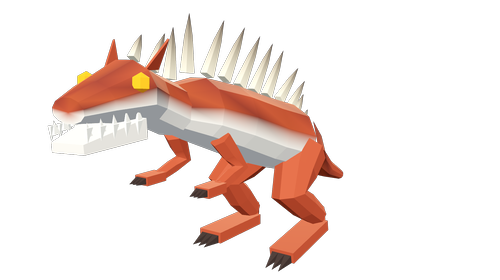
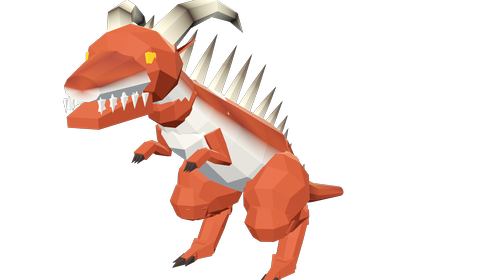
Integrate Lane UI: debug read-out behind F3 (R-UI2), preview never writes run history (R-UI5), thumbnails regenerated from the new monster models (R-UI1), L-19 settled, fold H800-H813
Claude-Session: https://claude.ai/code/session_01TkDAFjAZfbyuVMBwWarbCq

Changed region(s): [[0.09, 0.0, 0.69, 1.0]]

diff --git a/DECISIONS.md b/DECISIONS.md
@@ -216,3 +216,17 @@ Number blocks: H1-H99 foundation and plan (session 0). Lane blocks are reserved 
 | H678 | 2026-10-19 | Spirewalker rig v2: a broad low toad body (belly 0.45 m), short thick six limbs planted wide (elbows out level), the wide grinning toad head with a heavy brow (ext_swampfang's skull/jaw builders), a darker-ochre `mound` the reed bed grows from (tallest reeds in the middle), eight olive `frond` leaves round the mound, four thorned whip vines as rigkit chains (`vine_<k>_0..4`, role `reed`). Kept: six limbs, copper reeds, `reed_0..2`, the nine `arc` beads (now at least 0.45 m apart so HHMonsterBody's 0.22 m clustering never merges two). | Claude, decided | Gauntlet (SPIREWALKER.md rounds 0-3): the old model read as a spider; text wins on six limbs and a reed bed (no flower). | current |
 | H679 | 2026-10-19 | The whip vines are `reed` role, so the violet charge glow and the reeds-burnt charcoal reach them with no change to monster_body.gd; they are the reed lash on the body. HHSpirewalkerClips layers a vine pass after every clip (`_vine_layer`): `reed_lash` whips them over the back at contact, the squash folds and whips them, pollen shake shakes them, burnt / collapse / death droop them. | Claude, decided | Kickoff: "the reeds lash out like whips"; the reference's trailing thorned vines; one reed weak point. | current |
 | H680 | 2026-10-19 | Gauntlet tooling: `tools/gauntlet_compare_mb.gd` (reference left, render right, one PNG; headless, or `compose()` from a preview), `--gauntlet N`, `--clips a,b` on both MB preview tools, and `--water` on Swampfang's (a water plane at y 0 over a dropped floor, gameplay camera and close-up) because the fight camera never frames the calm monster before it wakes. | Claude, decided | BRIEF.md's comparison step; the pond check. | current |
+| H800 | 2026-10-19 | Thumbnails live in `art/ui/thumbs/<kind>_<id>.png` (500x280, twice a lobby tile), rendered by `tools/ui_thumbs.gd` from the current assets: arenas through `HHArenaView` at 74 m / 52 deg (opaque; a dark render is gamma-lifted to a 0.22 mean), monsters as `HHMonsterBody` at `aggravated_idle` 0.8 from the front three-quarter (transparent), weapons from `art/weapons/*.glb` with vertex-colour role materials (transparent; daggers as the crossed pair). `HHHud.thumb(kind, id)` loads the imported texture, else the raw PNG, else null. | Claude, decided | Lanes MA/MB are rebuilding the monsters now: a tool the integrator reruns beats copied renders that go stale. | current |
+| H801 | 2026-10-19 | The HUD paints through `HHHud.Paint` (RenderingServer calls on a canvas item RID) instead of `draw_*`; `_draw` passes its own item, the self-test a scratch item, so the whole HUD is exercised headless. `HHHud.paint(pt, size)` is the entry; `HHHud.layout(size)` is pure. | Claude, decided | `draw_*` refuses outside `_draw`, which a synchronous test cannot reach. | current |
+| H802 | 2026-10-19 | The action bar after ref/ui_hud.jpg: Q W E R left of a centred glass HP orb (r 54), the active element, the backup (72%, dimmed, "W" over it) and the potion right of it, on one dark plate with a gold trim and diamond studs. Skill names and the "fire / water" text are gone from the bar (the element slot names its element). | Claude, decided | Kickoff: "clean bottom action bar ... inspired by the reference UI, keeping the screen uncluttered". The reference centres the orb between two icon runs. | current |
+| H803 | 2026-10-19 | Icons are code-drawn glyphs (`HHHud.glyph_ops`: 11 skills, 7 elements, poison/slow/star/cross), two passes (ink outline, then fill) on a bevelled gradient slot with a lit core. No icon textures. | Claude, decided | Scales to any size, recolours per element, nothing to import; painted art is out of reach for code and no artist is attached. | current |
+| H804 | 2026-10-19 | Cooldowns are a radial sweep: the turn still to run, clockwise from 12 o'clock, shaded 66% black with a bright hand on the leading edge, the seconds in the centre (one decimal under 10 s). A slot that comes off cooldown flashes white for a third of a second. | Claude, decided | The reference's (and the genre's) cooldown read. | current |
+| H805 | 2026-10-19 | The stamina slot (H19) is an empty gold-railed arc over the orb's crown: reserved, never filled. | Claude, decided | The reference has an endurance arc there; drawing it full would claim a resource the game does not have. | current |
+| H806 | 2026-10-19 | All four skill icons wear the active element's colour; W recolours the whole bar. | Claude, decided | The swap is the weapon's core verb; the bar changing colour reads it at a glance. The reference's multi-hued icons were the alternative. | current |
+| H807 | 2026-10-19 | The monster plate: portrait socket (the monster thumbnail cropped round), name in serif caps, HP bar with a pale ghost of recent damage (drains 12%/s), quarter ticks, HP numbers inside, a state socket on the right (dim star when there is no state, the state's glyph and its label in caps when there is). | Claude, decided | "Name plate, state icon" (brief); the ghost shows what a big hit took. | current |
+| H808 | 2026-10-19 | Display face: a system serif (`HHHud.serif()`: Cambria, Georgia, Book Antiqua, Palatino Linotype, Times New Roman) in bold, falling back to the engine font. Nothing is bundled. | Claude, decided | Windows fonts may not be redistributed in the exe; SystemFont reads them on the author's machine and degrades elsewhere. | current |
+| H809 | 2026-10-19 | The lobby, results and ambush card share the HUD's language: dark plates with gold rules (`HHHud.plate`), round sockets (`HHHud.socket`), the serif, gold for selection. `HHLobby.make_theme()` is the shared theme (buttons as plates, FIGHT in the orb red, CheckBoxes as plain rows); the results screen uses it too. | Claude, decided | Author: "Also send the UI through the gauntlet as well". | current |
+| H810 | 2026-10-19 | Run history (L-19): `HHLobbyState.record_run / load_runs / run_entry / run_verdict`, a JSON array in `user://hexhunt_runs.json` (`runs_path`, redirected by the self-test to `user://selftest_runs.json`), newest first, 20 kept, 5 shown on the card. A fight routed back to the lobby records once (the lobby's `last_result`, else its HHShell parent's); the results screen records hunts (`record_run = false` for previews). | Claude, decided | The shell hands the lobby only `result_text`; reading the parent shell avoids a shell edit. Hunts never pass through the shell's routing, so nothing records twice. | current |
+| H811 | 2026-10-19 | The element strip shows its alternation (L-19): a "next click sets the ACTIVE / BACKUP element" line on the row, and on hover a dashed ring in that slot's colour with a "SET ACTIVE / SET BACKUP" tag; active wears a gold ring with a glow, backup a silver one. | Claude, decided | The rule was invisible until used. | current |
+| H812 | 2026-10-19 | Results: the verdict slams in (scale 1.8 -> 1 over 0.3 s), stats fade in at 0.35 s, drop cards deal from 0.75 s, 0.3 s apart, each with a flash peaking at 75% of its 0.35 s; `reveal_at(t)` jumps there. The card shows the skill's HUD icon in the launch element. | Claude, decided | "A short reveal animation" (brief); a function of time so captures and tests land on a frame. | current |
+| H813 | 2026-10-19 | Ambush title card: the name in the serif with a heavy outline on a dark band (alpha 0.88) across the lower third, gold rules fading to the edges, a stud at the top rule's centre, wiped open from the centre as the name lands. Slam timing unchanged. | Claude, decided | "The same font/plate language as the new HUD." | current |

diff --git a/LEDGER.md b/LEDGER.md
@@ -36,6 +36,6 @@ States: BLOCKED / OWED / AWAITING PLAY / WATCH / DEFERRED. IDs never change.
 | L-16 | Phase 3 gate: the author plays the lobby (every setup, Unlock all upgrades, slot some) and a full hunt (`Hunt.bat` or GO HUNTING): map, ambush, prep, fight, results, drops | PASSED 2026-10-19 ("damn actually very fun"); visual pass next (H49) | - |
 | L-17 | Balance flags from Lane U: Exchange Nova paints 37 hexes on a 1 s cooldown with no wind-up (strongest upgrade); Hunting Knives add three 60-damage strikes every 6 s; Cluster Shot and Aftershock always land because brains do not dodge player telegraphs | AWAITING PLAY | author slots them; numbers are F1 keys `upgrade_*`, `daggers_up_*`, `bow_up_*`, `lance_up_*` |
 | L-18 | Readability flags from Lane V: Colambros' smoulder glow is weak at 30 m on caldera ground; Rimeslithe's crystals read pale blue even at rest; Spirewalker charged turns the whole reed bed violet; the ward and projectile markers are covered only by headless tests | AWAITING PLAY | author looks; fixes are view-only |
-| L-19 | Lobby picks blind: tiles are colour + name, no thumbnails; element strip's active/backup alternation is not shown until used; returning from a fight shows only a one-line result | OWED | next lobby pass (monster/arena review renders already exist for thumbnails) |
+| L-19 | Lobby picks blind: tiles are colour + name, no thumbnails; element strip's active/backup alternation is not shown until used; returning from a fight shows only a one-line result | SETTLED 2026-10-19 (Lane UI: thumbnails, element hint, run history, H800-H813) | - |
 | L-20 | The world map is readable but sparse: four sites on rolling grass, no roads or landmarks | WATCH | content question for the author, not code |
 | L-21 | Map uses a x5 scaled parent because HHCameraRig clamps distance at 40 m (Lane H R-H4) | OWED | small core change: make DIST_MAX a var |
